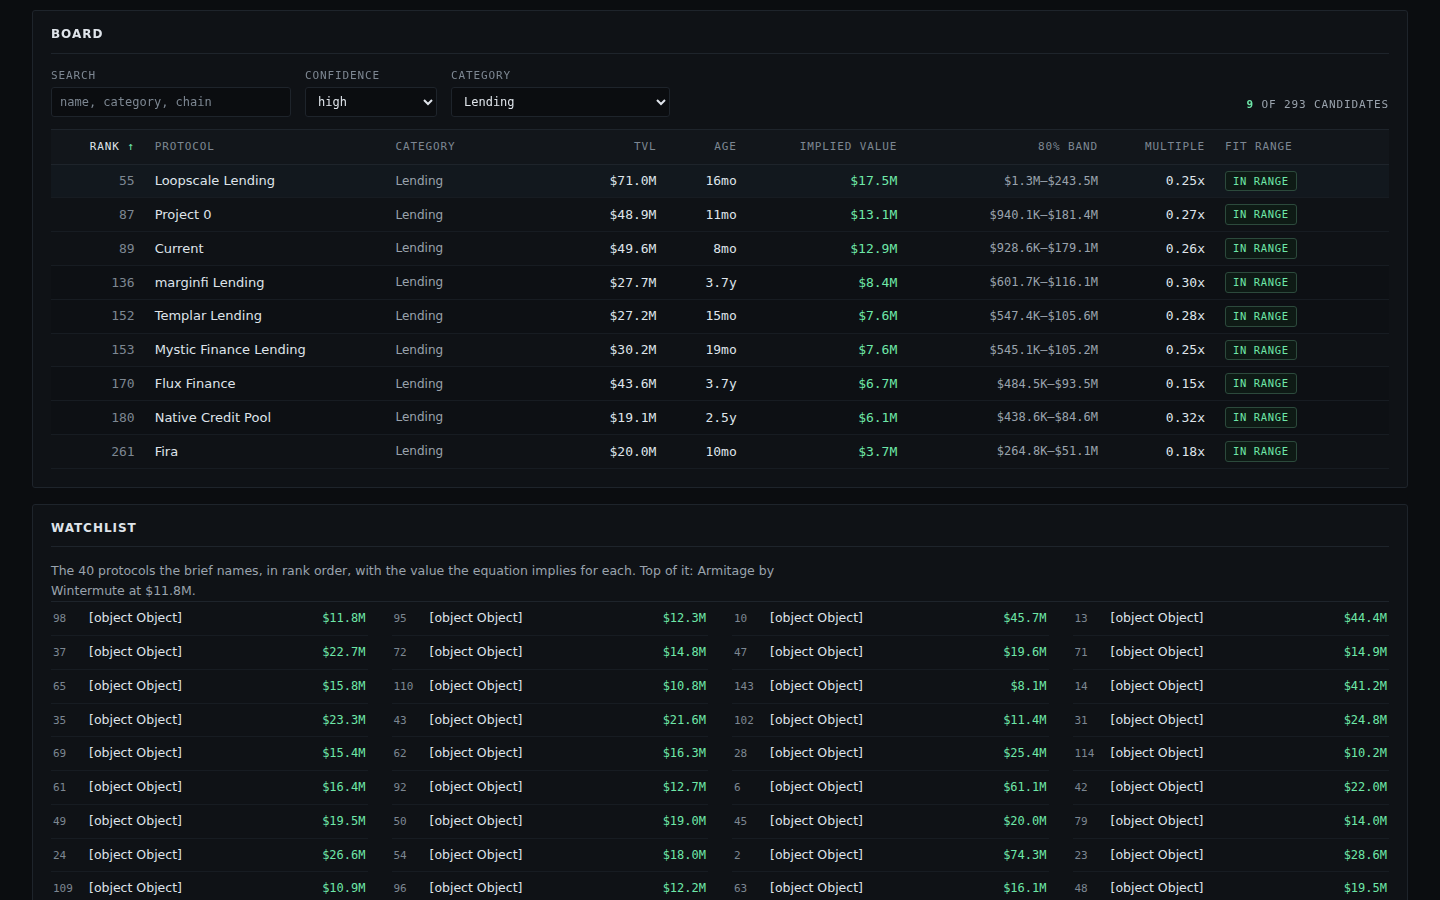
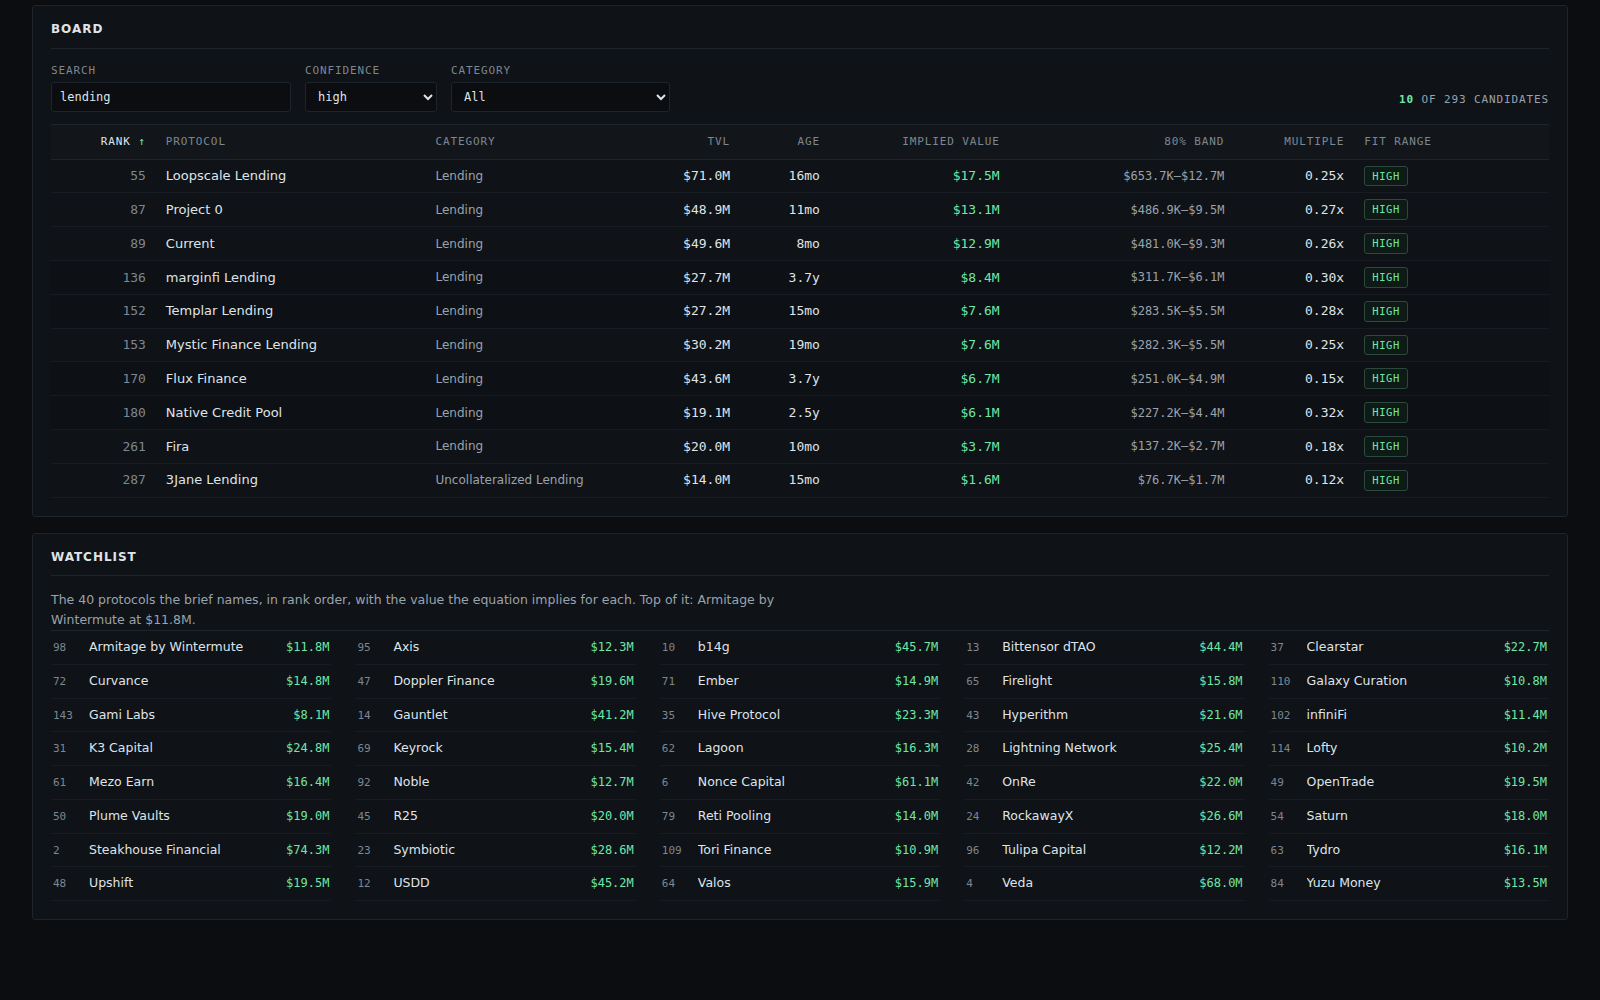
radar-4: peer-quartile bands, costed farm steps, live-token audit panel, drawer gutter, watchlist name fix

diff --git a/lib/model.ts b/lib/model.ts
@@ -106,6 +106,8 @@ export interface BoardRow {
   high_usd: number;
   multiple: number;
   band_ratio: number;
+  band_source: 'peers' | 'model';
+  peer_n: number;
   confidence: 'high' | 'medium' | 'low';
   thesis: string;
   farm_steps: string[];
@@ -144,6 +146,18 @@ export interface Calibration {
   spearman_growth_mcap: number;
   pooled_multiple: number;
   loo: { n: number; median_ratio: number; within2x: number };
+  live: LiveRow[];
+}
+
+/** A protocol whose token already trades: the model's value against the market's. */
+export interface LiveRow {
+  slug: string;
+  name: string;
+  category: string;
+  tvl_usd: number;
+  mcap_usd: number;
+  implied_usd: number;
+  ratio: number;
 }
 
 /** The model card: constants a judge recomputes a row from, the comparison, and why M3 won. */
@@ -243,6 +257,16 @@ function median(values: number[]): number {
   const sorted = [...values].sort((a, b) => a - b);
   const mid = sorted.length >> 1;
   return sorted.length % 2 === 1 ? sorted[mid]! : (sorted[mid - 1]! + sorted[mid]!) / 2;
+}
+
+/** Linear-interpolated quantile of a sorted list, q in 0..1. */
+function quantile(sorted: number[], q: number): number {
+  if (sorted.length === 0) return 0;
+  if (sorted.length === 1) return sorted[0]!;
+  const at = (sorted.length - 1) * q;
+  const lo = Math.floor(at);
+  const hi = Math.ceil(at);
+  return sorted[lo]! + (sorted[hi]! - sorted[lo]!) * (at - lo);
 }
 
 /** 1-based average ranks with ties shared — the first half of Spearman. */
@@ -502,8 +526,18 @@ export function scoreModels(snapshot: Snapshot): ModelComparison[] {
 export function buildCalibration(snapshot: Snapshot): Calibration {
   const rows = trainingRows(snapshot);
   const ratios: number[] = [];
+  const live: LiveRow[] = [];
   let within2x = 0;
   for (const row of rows) {
+    live.push({
+      slug: row.slug,
+      name: row.name,
+      category: row.category,
+      tvl_usd: toWhole(row.tvl),
+      mcap_usd: toWhole(row.mcap),
+      implied_usd: impliedUsd(row.tvl, row.age, row.change),
+      ratio: roundTo(row.mcap / impliedUsd(row.tvl, row.age, row.change), 3),
+    });
     const ratio = row.mcap / impliedUsd(row.tvl, row.age, row.change);
     ratios.push(ratio);
     if (ratio >= 0.5 && ratio <= 2) within2x++;
@@ -519,6 +553,7 @@ export function buildCalibration(snapshot: Snapshot): Calibration {
     spearman_growth_mcap: roundTo(spearman(rows.map((r) => r.change), logMcap), 3),
     pooled_multiple: roundTo(median(rows.map((r) => r.mcap / r.tvl)), 3),
     loo: { n: rows.length, median_ratio: roundTo(median(ratios), 3), within2x },
+    live: live.sort((a, b) => b.mcap_usd - a.mcap_usd),
   };
 }
 
@@ -637,14 +672,26 @@ function farmPlan(f: PlanFigures): string[] {
   const copy = FAMILY_COPY[familyOf(f.category)];
   const chains = f.chains.length > 0 ? f.chains.slice(0, 3).join(', ') : 'its listed chains';
   const tape = f.change === null ? 'no seven-day change is reported' : `it moved ${f.change.toFixed(2)}% in seven days`;
-  return [
-    step(`Open on ${f.slug}: ${f.name} holds ${planUsd(f.tvl)} of TVL and the equation values it at ${planUsd(f.implied)}, a ${planMultiple(f.multiple)}x multiple, while ${tape}.`),
-    step(`Find the claim surface: watch ${copy.surface}. A ${f.category} protocol at ${planMultiple(f.multiple)}x implies ${planUsd(f.implied)} of future value, so points are the only way in before a token exists.`),
-    step(`Size the capital against ${chains}: commit ${planUsd(f.low)} first, the bottom of the 80% band, through ${copy.venue}. That is the smallest position that still earns ${planMultiple(f.multiple)}x if the middle of the band lands.`),
-    step(`Name the risk before you deposit: ${copy.overstated} could halve the ${planUsd(f.tvl)} of TVL within a week, and a ${f.bandRatio.toFixed(2)}x band ratio means the implied value may never happen.`),
-    step(`Check the overhang: ${f.age} days without a token and ${planUsd(f.high)} of band upside against ${planUsd(f.tvl)} of TVL means the unlock sells into the first listing. Price that unlock into the ${planMultiple(f.multiple)}x entry.`),
-    step(`Set the exit now: claim at ${planUsd(f.implied)} or better, sell into the first 48 hours of trading, and unwind the ${copy.venue} if TVL falls under ${planUsd(f.tvl * 0.8)} with no claim date.`),
+  // Costs and times are per-step estimates for one wallet on the chains the row lists: gas at
+  // GAS_USD_PER_CHAIN, one bridge and one claim signature, and the waiting time each step needs.
+  const gas = planUsd(GAS_USD_PER_CHAIN * Math.max(1, f.chains.length));
+  const steps = [
+    `Open on ${f.slug}: ${f.name} holds ${planUsd(f.tvl)} of TVL and the equation values it at ${planUsd(f.implied)}, a ${planMultiple(f.multiple)}x multiple, while ${tape}.`,
+    `Find the claim surface: watch ${copy.surface}. A ${f.category} protocol at ${planMultiple(f.multiple)}x implies ${planUsd(f.implied)} of future value, so points are the only way in before a token exists.`,
+    `Size the capital against ${chains}: commit ${planUsd(f.low)} first, the lower peer multiple of the band, through ${copy.venue}. That is the smallest position that still earns ${planMultiple(f.multiple)}x if the middle of the band lands.`,
+    `Name the risk before you deposit: ${copy.overstated} could halve the ${planUsd(f.tvl)} of TVL within a week, and a ${f.bandRatio.toFixed(2)}x band between the peers' quartiles means the implied value may never happen.`,
+    `Check the overhang: ${f.age} days without a token and ${planUsd(f.high)} of band upside against ${planUsd(f.tvl)} of TVL means the unlock sells into the first listing. Price that unlock into the ${planMultiple(f.multiple)}x entry.`,
+    `Set the exit now: claim at ${planUsd(f.implied)} or better, sell into the first 48 hours of trading, and unwind ${copy.venue} if TVL falls under ${planUsd(f.tvl * 0.8)} with no claim date.`,
   ];
+  const costs = [
+    `Costs ${gas} of gas across ${Math.max(1, f.chains.length)} chain${f.chains.length === 1 ? '' : 's'}; 10 minutes.`,
+    `Costs nothing but ${WATCH_DAYS} days of watching; 20 minutes a day.`,
+    `Costs ${gas} to bridge and deposit, plus the position itself; settles in ${DEPOSIT_DAYS} day${DEPOSIT_DAYS === 1 ? '' : 's'}.`,
+    `Costs ${gas} to move out if the risk lands; an hour to unwind.`,
+    `Costs nothing to price; hold ${HOLD_DAYS} days past the claim date.`,
+    `Costs ${gas} to sell and bridge back; the exit fills in ${EXIT_DAYS} days.`,
+  ];
+  return steps.map((text, i) => `${text} ${costs[i]}`);
 }
 
 /** One sentence, at most THESIS_MAX_CHARS, naming the two figures that drive the value. */
@@ -667,13 +714,67 @@ function confidenceOf(tvl: number): BoardRow['confidence'] {
   return 'low';
 }
 
+/** Gas and fees for one wallet's steps, in dollars: two signatures on one chain at a $9 average. */
+export const GAS_USD_PER_CHAIN = 18;
+/** Days a farm plan watches a claim surface before it calls the wait dead. */
+export const WATCH_DAYS = 14;
+/** Days a deposit into the venue takes to settle. */
+export const DEPOSIT_DAYS = 2;
+/** Days a position is held past a claim date before the exit is forced. */
+export const HOLD_DAYS = 7;
+/** Days an exit order takes to fill and bridge back. */
+export const EXIT_DAYS = 2;
+
+/** A category needs this many fitted peers before its own multiple range prices the band. */
+export const PEER_BAND_MIN_N = 8;
+/** Key of the pooled fallback band: every fitted peer, whatever its category. */
+const PEER_ALL = '\u0000all';
+
+/** The middle half of a category's fitted multiples: mcap/TVL of the peers whose token already trades. */
+export function peerBands(snapshot: Snapshot): Map<string, { p25: number; p75: number; n: number }> {
+  const byCategory = new Map<string, number[]>();
+  for (const p of snapshot.protocols) {
+    if (!isTrainingRow(p)) continue;
+    const multiple = (p.mcap_usd as number) / p.tvl_usd;
+    if (!Number.isFinite(multiple) || multiple <= 0) continue;
+    const bucket = byCategory.get(p.category) ?? [];
+    bucket.push(multiple);
+    byCategory.set(p.category, bucket);
+  }
+  const bands = new Map<string, { p25: number; p75: number; n: number }>();
+  // Every fitted row pooled: the fallback band for a category too thin to price itself.
+  const all: number[] = [];
+  for (const multiples of byCategory.values()) all.push(...multiples);
+  if (all.length >= PEER_BAND_MIN_N) {
+    const pooled = [...all].sort((a, b) => a - b);
+    const lo = quantile(pooled, 0.25);
+    const hi = quantile(pooled, 0.75);
+    if (hi > lo && lo > 0) bands.set(PEER_ALL, { p25: lo, p75: hi, n: pooled.length });
+  }
+  for (const [category, multiples] of byCategory) {
+    if (multiples.length < PEER_BAND_MIN_N) continue;
+    const sorted = [...multiples].sort((a, b) => a - b);
+    const p25 = quantile(sorted, 0.25);
+    const p75 = quantile(sorted, 0.75);
+    if (!(p75 > p25) || p25 <= 0) continue;
+    bands.set(category, { p25, p75, n: sorted.length });
+  }
+  return bands;
+}
+
 /** Builds one row's figures from its protocol, before ranking. */
-function rowOf(p: Protocol, asOf: string): Omit<BoardRow, 'rank'> {
+function rowOf(p: Protocol, asOf: string, peers: Map<string, { p25: number; p75: number; n: number }>): Omit<BoardRow, 'rank'> {
   const age = ageDays(p.listed_at, asOf);
   const change = changeOf(p.change_7d);
   const implied = impliedUsd(p.tvl_usd, age, change);
-  const low = Math.max(1, toWhole(implied * Math.exp(-BAND_Z * RESID_SD)));
-  const high = Math.max(low, toWhole(implied * Math.exp(BAND_Z * RESID_SD)));
+  // The band is the middle half of the peers' own multiples where the category has enough of them;
+  // the fit's residual band is the fallback for thin categories.
+  const peer = peers.get(p.category) ?? peers.get(PEER_ALL);
+  const usePeers = peer !== undefined;
+  const lowFactor = usePeers ? peer.p25 : Math.exp(-BAND_Z * RESID_SD);
+  const highFactor = usePeers ? peer.p75 : Math.exp(BAND_Z * RESID_SD);
+  const low = Math.max(1, toWhole(implied * lowFactor));
+  const high = Math.max(low + 1, toWhole(implied * highFactor));
   const multiple = p.tvl_usd > 0 ? implied / p.tvl_usd : 0;
   const bandRatio = low > 0 ? roundTo(high / low, 2) : roundTo(EXP_BAND_FACTOR ** 2, 2);
   const figures: PlanFigures = {
@@ -703,6 +804,8 @@ function rowOf(p: Protocol, asOf: string): Omit<BoardRow, 'rank'> {
     high_usd: high,
     multiple: roundTo(multiple, 2),
     band_ratio: bandRatio,
+    band_source: usePeers ? 'peers' : 'model',
+    peer_n: usePeers ? peer.n : 0,
     confidence: confidenceOf(p.tvl_usd),
     thesis: thesisOf(figures),
     farm_steps: farmPlan(figures),
@@ -746,16 +849,17 @@ export function buildRadar(snapshot: Snapshot): { board: BoardRow[]; radar: Rada
   const bySlug = new Map<string, Protocol>();
   for (const p of snapshot.protocols) if (!bySlug.has(p.slug)) bySlug.set(p.slug, p);
   const screened = screenedCounts(snapshot);
+  const peers = peerBands(snapshot);
 
   const rows: Omit<BoardRow, 'rank'>[] = [];
-  for (const p of snapshot.protocols) if (isCandidate(p)) rows.push(rowOf(p, snapshot.as_of));
+  for (const p of snapshot.protocols) if (isCandidate(p)) rows.push(rowOf(p, snapshot.as_of, peers));
 
   // A watchlist slug outside the candidate set still gets a row, so the board covers the brief.
   const seen = new Set(rows.map((r) => r.slug));
   for (const slug of snapshot.watchlist) {
     const p = bySlug.get(slug);
     if (p !== undefined && !seen.has(slug)) {
-      rows.push(rowOf(p, snapshot.as_of));
+      rows.push(rowOf(p, snapshot.as_of, peers));
       seen.add(slug);
     }
   }

diff --git a/dashboard/app.js b/dashboard/app.js
@@ -681,6 +681,8 @@ function openDrawer(row) {
   body.replaceChildren(drawerContent(row));
   body.scrollTop = 0;
   drawer.hidden = false;
+  // Keep every board column on screen: the page yields the drawer's width.
+  document.body.classList.add('drawer-open');
 
   if (state.active) rowEls.get(state.active)?.classList.remove('is-active');
   state.active = row.slug;
@@ -689,6 +691,7 @@ function openDrawer(row) {
 }
 
 function closeDrawer() {
+  document.body.classList.remove('drawer-open');
   if (drawer.hidden) return;
   drawer.hidden = true;
   if (state.active) rowEls.get(state.active)?.classList.remove('is-active');
@@ -713,7 +716,7 @@ function renderWatchlist() {
     body.append(
       el('li', null, [
         el('span', 'w-rank', String(row.rank)),
-        el('span', 'w-name', { title: `${row.name} — ${row.category}`, text: row.name }),
+        el('span', { class: 'w-name', title: `${row.name} — ${row.category}`, text: row.name }),
         el('span', 'w-val', formatUsd(row.implied_value_usd)),
       ]),
     );
@@ -721,6 +724,41 @@ function renderWatchlist() {
   const named = list[0] ? ` Top of it: ${list[0].name} at ${formatUsd(list[0].implied_value_usd)}.` : '';
   document.getElementById('watch-note').textContent =
     `The ${list.length} protocols the brief names, in rank order, with the value the equation implies for each.${named}`;
+}
+
+/* 10b. ALREADY TRADING ------------------------------------------------------ */
+
+function renderLive() {
+  const cal = R.calibration || {};
+  const rows = cal.live || [];
+  const body = document.getElementById('live-body');
+  if (!rows.length) {
+    document.getElementById('live-note').textContent = 'No protocol on the snapshot reports a market cap yet.';
+    return;
+  }
+  // Twelve rows spanning the model's own error: the four closest, four around the median, four worst.
+  const sorted = [...rows].sort((a, b) => Math.abs(Math.log(a.ratio)) - Math.abs(Math.log(b.ratio)));
+  const picks = [];
+  for (const i of [0, 1, 2, 3]) if (sorted[i]) picks.push(sorted[i]);
+  const mid = Math.floor(sorted.length / 2);
+  for (const i of [mid - 2, mid - 1, mid, mid + 1]) if (sorted[i]) picks.push(sorted[i]);
+  const worst = sorted.slice(-4);
+  for (const row of worst) if (!picks.includes(row)) picks.push(row);
+  for (const row of picks) {
+    const tr = el('tr', null, [
+      el('td', 'l-name', row.name),
+      el('td', 'num', formatUsd(row.tvl_usd)),
+      el('td', 'num', formatUsd(row.mcap_usd)),
+      el('td', 'num', formatUsd(row.implied_usd)),
+      el('td', 'num', { class: row.ratio >= 0.5 && row.ratio <= 2 ? 'num is-good' : 'num is-off', text: `${row.ratio.toFixed(2)}x` }),
+    ]);
+    body.append(tr);
+  }
+  const loo = cal.loo || { n: rows.length, median_ratio: 0, within2x: 0 };
+  document.getElementById('live-note').textContent =
+    `${rows.length} protocols on the snapshot already trade, and the board leaves them off the ranking for that reason. ` +
+    `The equation can be checked against their market caps: median market ÷ model ${loo.median_ratio.toFixed(2)}x, ` +
+    `${loo.within2x} of ${loo.n} inside 2x either way. The twelve below span that error, closest first, worst last.`;
 }
 
 /* 11. MOUNT ---------------------------------------------------------------- */
@@ -740,6 +778,7 @@ function boot() {
   wireBoardControls();
   applyFilter();
   wireDrawer();
+  renderLive();
   renderWatchlist();
 }
 

diff --git a/dashboard/app.css b/dashboard/app.css
@@ -705,3 +705,18 @@ caption { text-align: left; }
   .watch { grid-template-columns: 1fr; }
   .facts { grid-template-columns: repeat(2, minmax(0, 1fr)); }
 }
+
+/* 13. DRAWER GUTTER -------------------------------------------------------- */
+/* A 430px drawer must not swallow the last three board columns. */
+body.drawer-open .wrap { padding-right: 466px; }
+@media (max-width: 1100px) { body.drawer-open .wrap { padding-right: 24px; } }
+
+/* 14. ALREADY TRADING ------------------------------------------------------- */
+.live-wrap { overflow-x: auto; }
+.live { width: 100%; border-collapse: collapse; font: 12px/1.5 var(--mono); }
+.live th { text-align: left; font: 11px/1 var(--sans); letter-spacing: .08em; text-transform: uppercase; color: var(--ink-dim); padding: 8px 10px; border-bottom: 1px solid var(--rule); white-space: nowrap; }
+.live td { padding: 7px 10px; border-bottom: 1px solid var(--rule-soft); white-space: nowrap; }
+.live .l-name { font-family: var(--sans); font-size: 13px; }
+.live .num { text-align: right; font-variant-numeric: tabular-nums; }
+.live .is-good { color: var(--accent); }
+.live .is-off { color: var(--warn); }

diff --git a/dashboard/index.html b/dashboard/index.html
@@ -73,6 +73,20 @@
     </div>
   </section>
 
+  <!-- ALREADY TRADING -->
+  <section class="panel" id="live" aria-labelledby="live-h">
+    <h2 id="live-h">Already trading</h2>
+    <p class="note" id="live-note"></p>
+    <div class="live-wrap">
+      <table class="live">
+        <thead>
+          <tr><th scope="col">Protocol</th><th scope="col">TVL</th><th scope="col">Market cap</th><th scope="col">Model says</th><th scope="col">Market ÷ model</th></tr>
+        </thead>
+        <tbody id="live-body"></tbody>
+      </table>
+    </div>
+  </section>
+
   <!-- BOARD -->
   <section class="panel" id="board" aria-labelledby="board-h">
     <h2 id="board-h">Board</h2>
